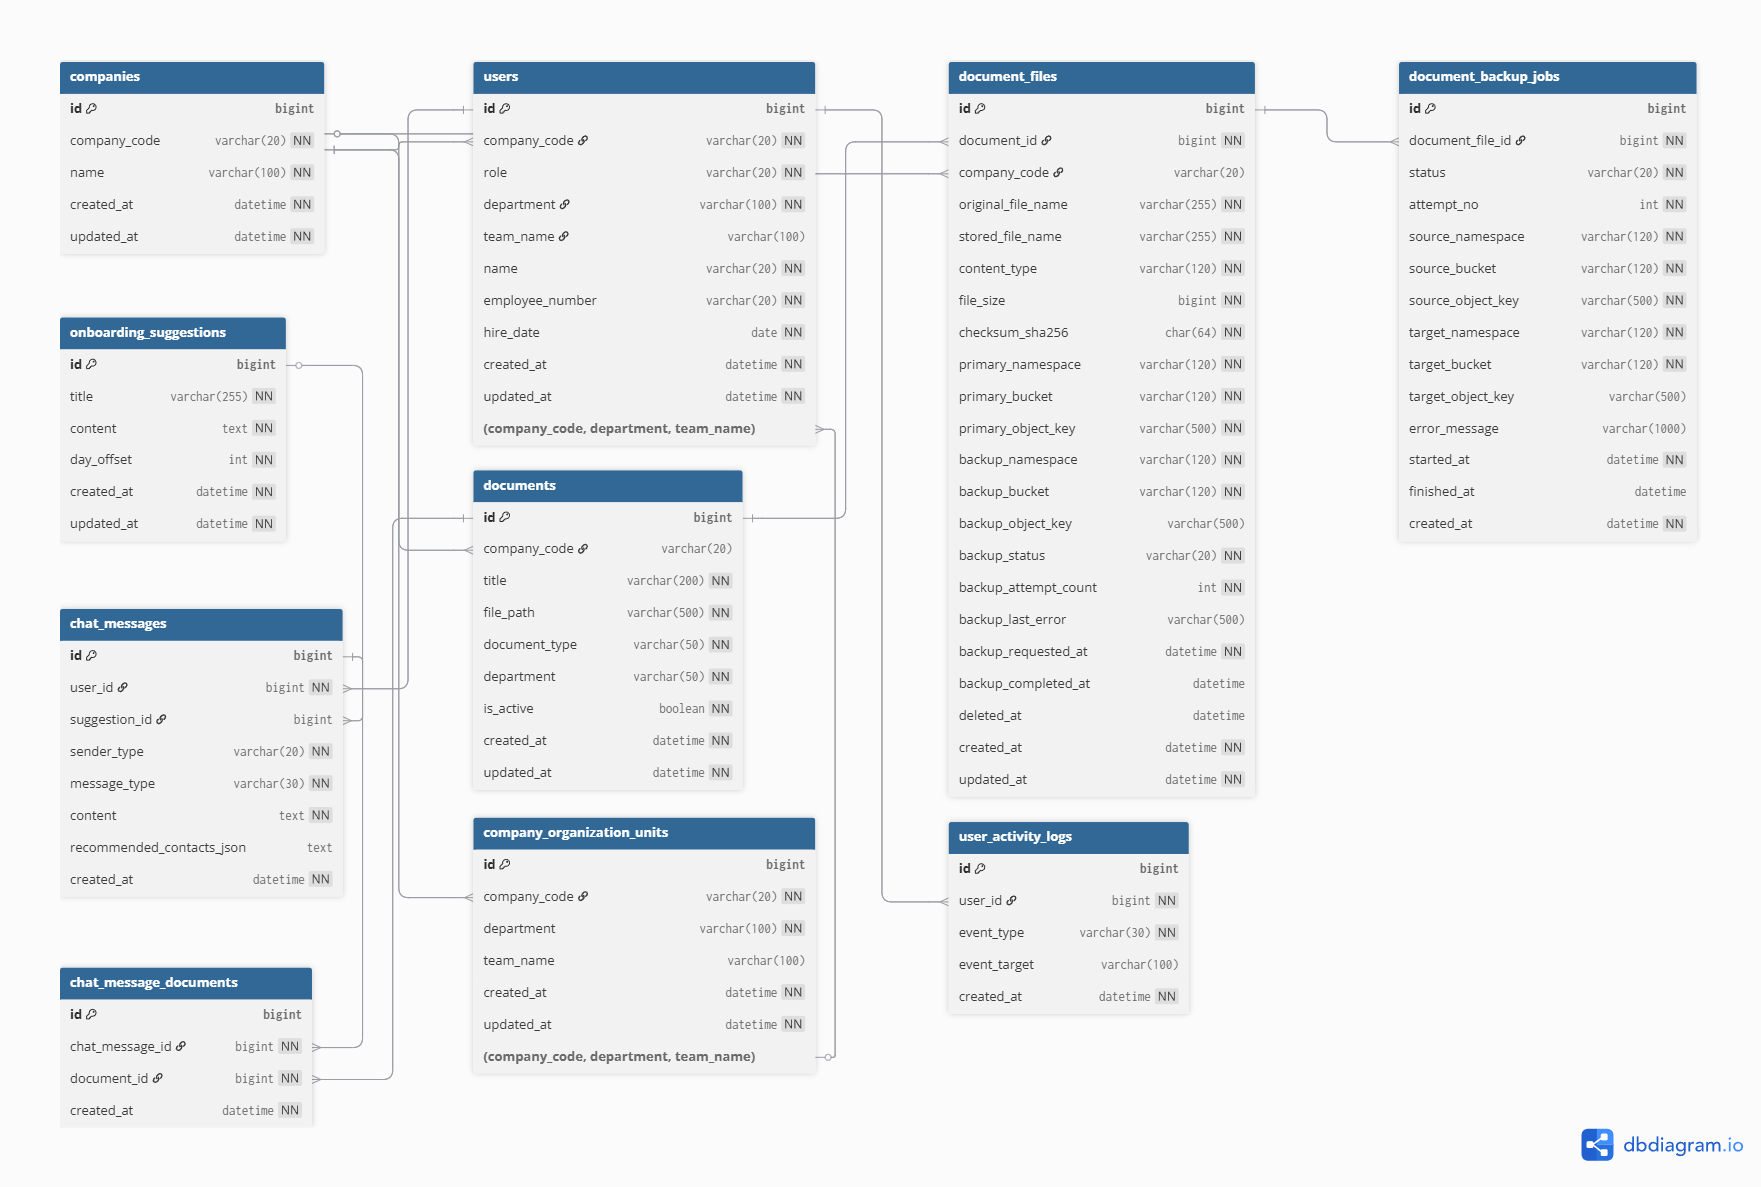
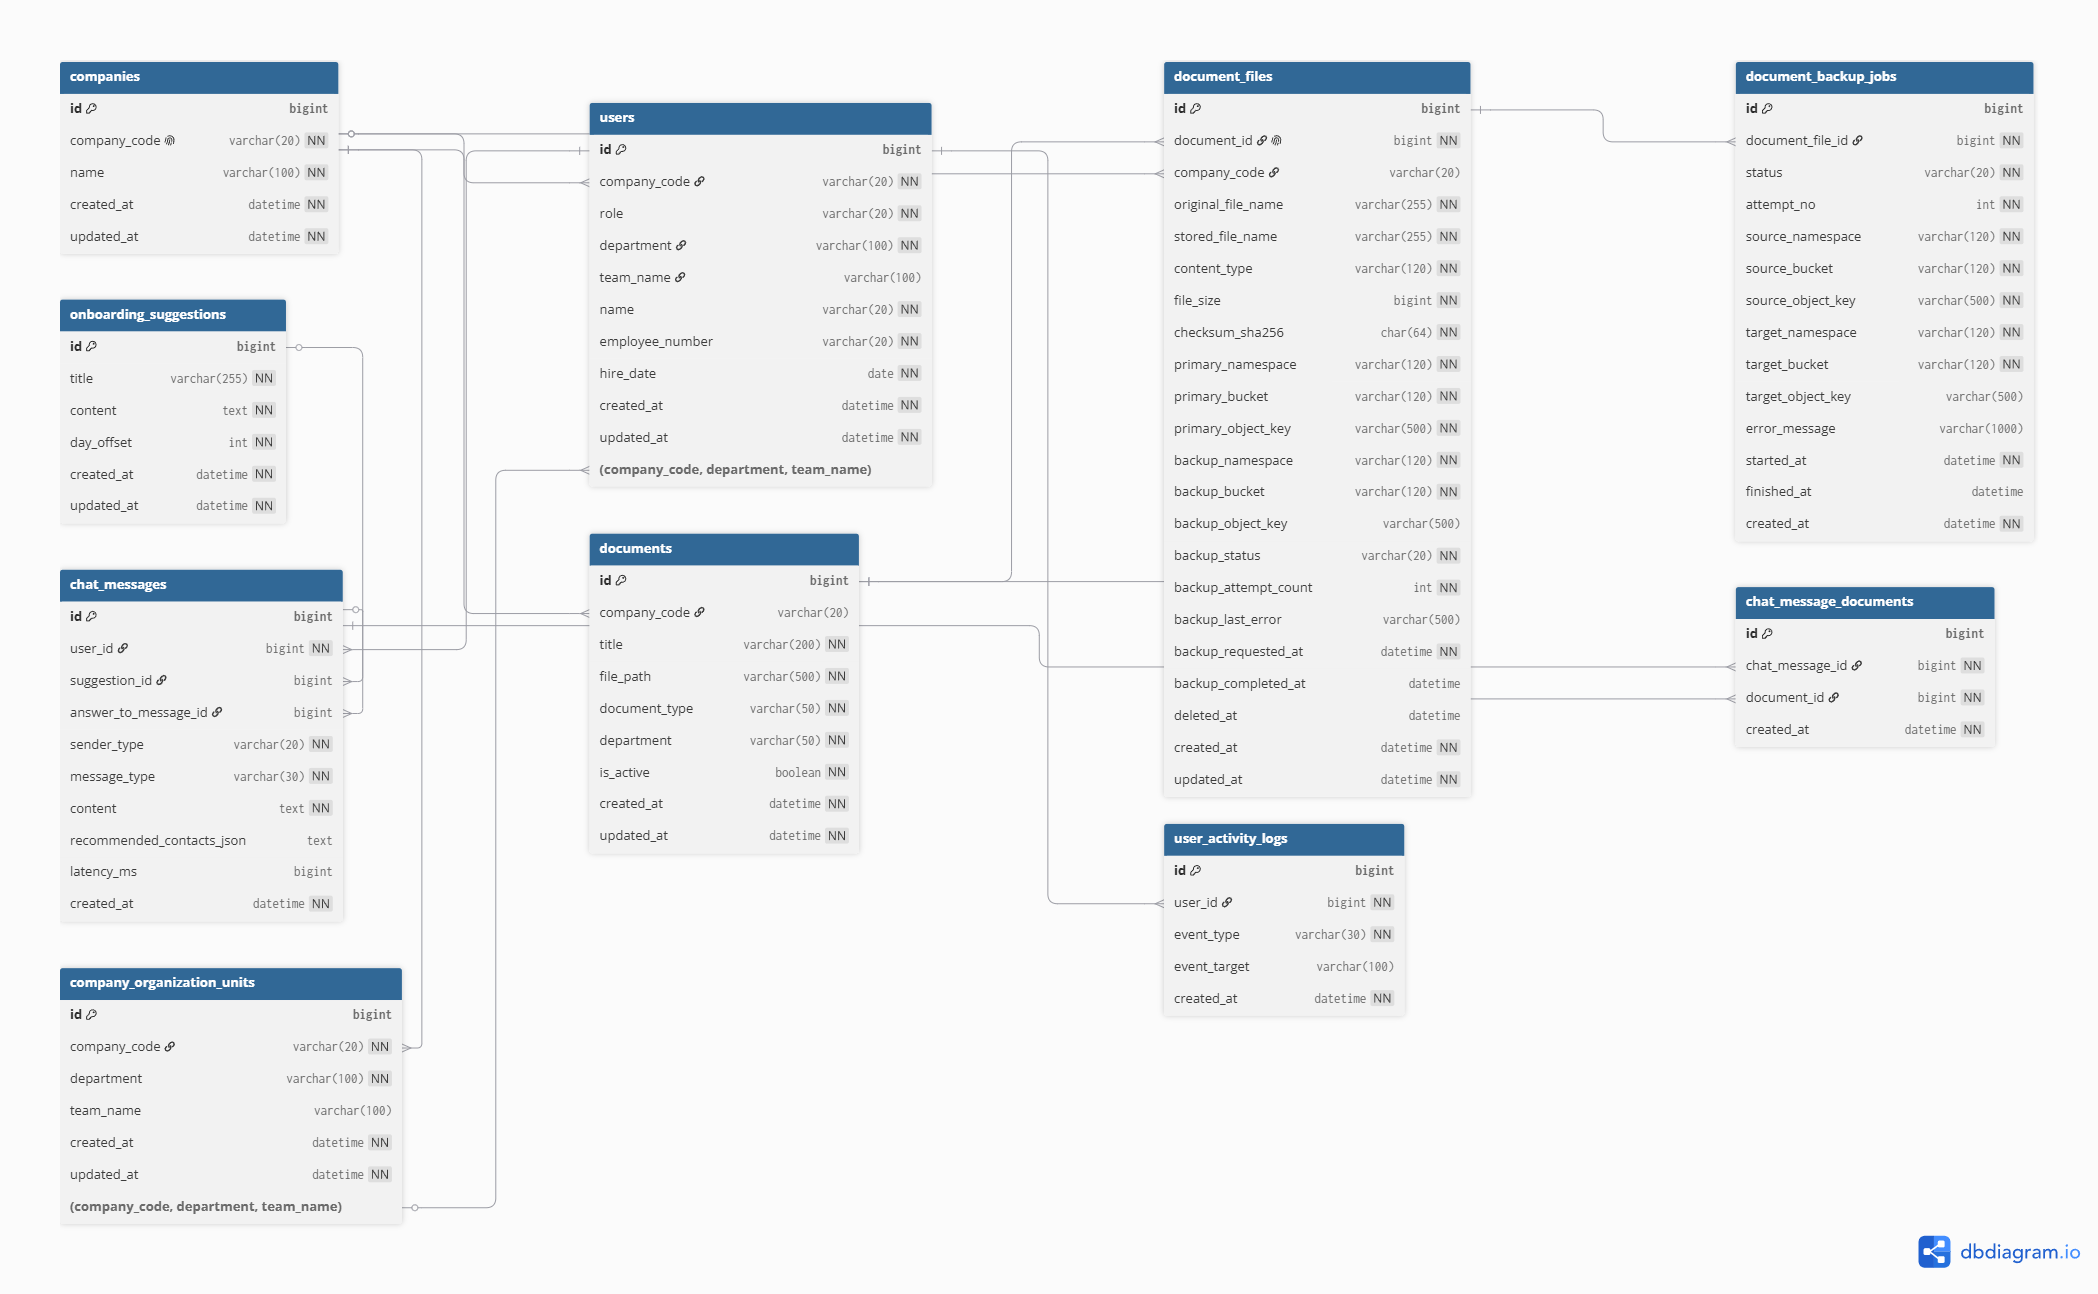
fix: ERD 수정

diff --git a/docs/data/ERD.md b/docs/data/ERD.md
@@ -1,7 +1,7 @@
 # ERD
 
-**현재 버전: v2.1**
-**최종 수정일: 2026-05-20**
+**현재 버전: v2.2**
+**최종 수정일: 2026-05-27**
 
 ## 개요
 **ERD(Entity Relationship Diagram)** 를 텍스트로 정리한 문서이다.
@@ -205,11 +205,20 @@
 - `id` : PK, bigint
 - `user_id` : FK → `users.id`
 - `suggestion_id` : FK → `onboarding_suggestions.id`, nullable
+- `answer_to_message_id` : FK → `chat_messages.id`, nullable
 - `sender_type` : 발신 주체 구분값, varchar
 - `message_type` : 메시지 유형 구분값, varchar
 - `content` : 메시지 내용, text
 - `recommended_contacts_json` : 추천 담당자 카드 재구성을 위한 JSON 문자열 스냅샷, text, nullable
+- `latency_ms` : 사용자 질문부터 봇 답변 생성 완료까지 걸린 시간, bigint, nullable
 - `created_at` : 메시지 생성 일시, datetime
+
+### 제약조건
+- `user_id`는 `users.id`를 참조한다.
+- `suggestion_id`는 `onboarding_suggestions.id`를 참조하며, 온보딩 제안 메시지가 아닌 경우 `null`을 허용한다.
+- `answer_to_message_id`는 같은 테이블의 `chat_messages.id`를 참조한다.
+- `answer_to_message_id`가 참조하는 질문 메시지가 삭제되는 경우 `ON DELETE SET NULL` 정책에 따라 답변 메시지의 연결값은 `null`로 변경된다.
+- `answer_to_message_id` 조회 성능을 위해 `idx_chat_messages_answer_to_message_id` 인덱스를 둔다.
 
 ### 설명
 - 사용자의 질문, 챗봇의 답변, 챗봇의 선제 제안 메시지를 모두 저장한다.
@@ -223,9 +232,15 @@
 - `rag_answer`는 답변이 생성된 경우로 간주한다.
 - `no_result`는 질문 범위는 맞지만 답변 가능한 정보가 없는 경우로 간주한다.
 - 온보딩 가이드 기반 제안인 경우 어떤 온보딩 가이드를 참조했는지 `suggestion_id`로 연결할 수 있다.
+- 봇 답변 메시지는 `answer_to_message_id`를 통해 어떤 사용자 질문에 대한 답변인지 직접 연결할 수 있다.
+- 여러 사용자가 동시에 질문하더라도 단순히 직전 메시지 기준으로 답변을 추론하지 않고, `answer_to_message_id`를 통해 USER 질문과 BOT 답변의 관계를 명확하게 관리한다.
+- `answer_to_message_id`는 주로 `sender_type = BOT`이고 `message_type`이 `rag_answer`, `no_result`, `out_of_scope`인 메시지에서 사용한다.
+- `suggestion` 메시지처럼 특정 사용자 질문에 대한 답변이 아닌 메시지는 `answer_to_message_id`를 `null`로 둘 수 있다.
 - 채팅형 UI에서 시간순 메시지 조회 및 대화 이력 관리에 활용할 수 있다.
 - `recommended_contacts_json`은 `message_type = no_result`인 답변에서 추천 담당자 목록을 저장할 때 사용한다.
 - `recommended_contacts_json`은 과거 채팅 조회 시 추천 담당자 카드를 동일하게 재구성하기 위한 메시지 시점의 스냅샷이다.
+- `latency_ms`는 사용자 질문 저장 이후 봇 답변 생성이 완료되기까지 걸린 시간을 밀리초 단위로 저장한다.
+- `latency_ms`는 봇 답변 메시지 기준으로 저장하는 것을 권장하며, 사용자 질문 메시지나 온보딩 제안 메시지에서는 `null`을 허용한다.
 
 ---
 
@@ -285,6 +300,7 @@
 - `document_files` 1 : N `document_backup_jobs`
 - `users` 1 : N `chat_messages`
 - `onboarding_suggestions` 1 : N `chat_messages` (선택적 연결)
+- `chat_messages` 1 : N `chat_messages` (답변 메시지의 `answer_to_message_id`가 질문 메시지를 참조하는 자기참조 관계)
 - `chat_messages` 1 : N `chat_message_documents`
 - `documents` 1 : N `chat_message_documents`
 - `users` 1 : N `user_activity_logs`
@@ -302,6 +318,8 @@
 - 채팅 메시지 1개는 여러 개의 근거 문서와 연결될 수 있다.
 - 문서 1개는 여러 개의 채팅 메시지의 근거 문서로 연결될 수 있다.
 - 사용자 1명은 여러 개의 활동 로그를 가질 수 있다.
+- 채팅 메시지는 자기참조 관계를 통해 BOT 답변 메시지가 어떤 USER 질문 메시지에 대한 답변인지 직접 연결할 수 있다.
+- 질문 메시지가 삭제되더라도 답변 메시지 자체는 유지되며, `answer_to_message_id`만 `null`로 변경된다.
 
 ---
 
@@ -320,6 +338,7 @@
 - v1.8 (2026-04-30): `chat_messages` 테이블에 `recommended_contacts_json` 컬럼 추가
 - v2.0 (2026-05-19): `users.department`, `users.team_name` 컬럼 추가 및 각 컬럼 최대 길이 100자 기준 반영
 - v2.1 (2026-05-20): 회사별 부서/팀 기준정보 관리를 위한 `company_organization_units` 테이블 추가, `users.team_name` nullable 반영, `users(company_code, department, team_name)`와 `company_organization_units(company_code, department, team_name)` 간 복합 외래키 관계 반영
+- v2.2 (2026-05-27): `chat_messages.answer_to_message_id`, `chat_messages.latency_ms` 컬럼 추가, 질문-답변 직접 연결을 위한 자기참조 외래키 및 답변 생성 소요 시간 저장 구조 반영
 
 ---
 